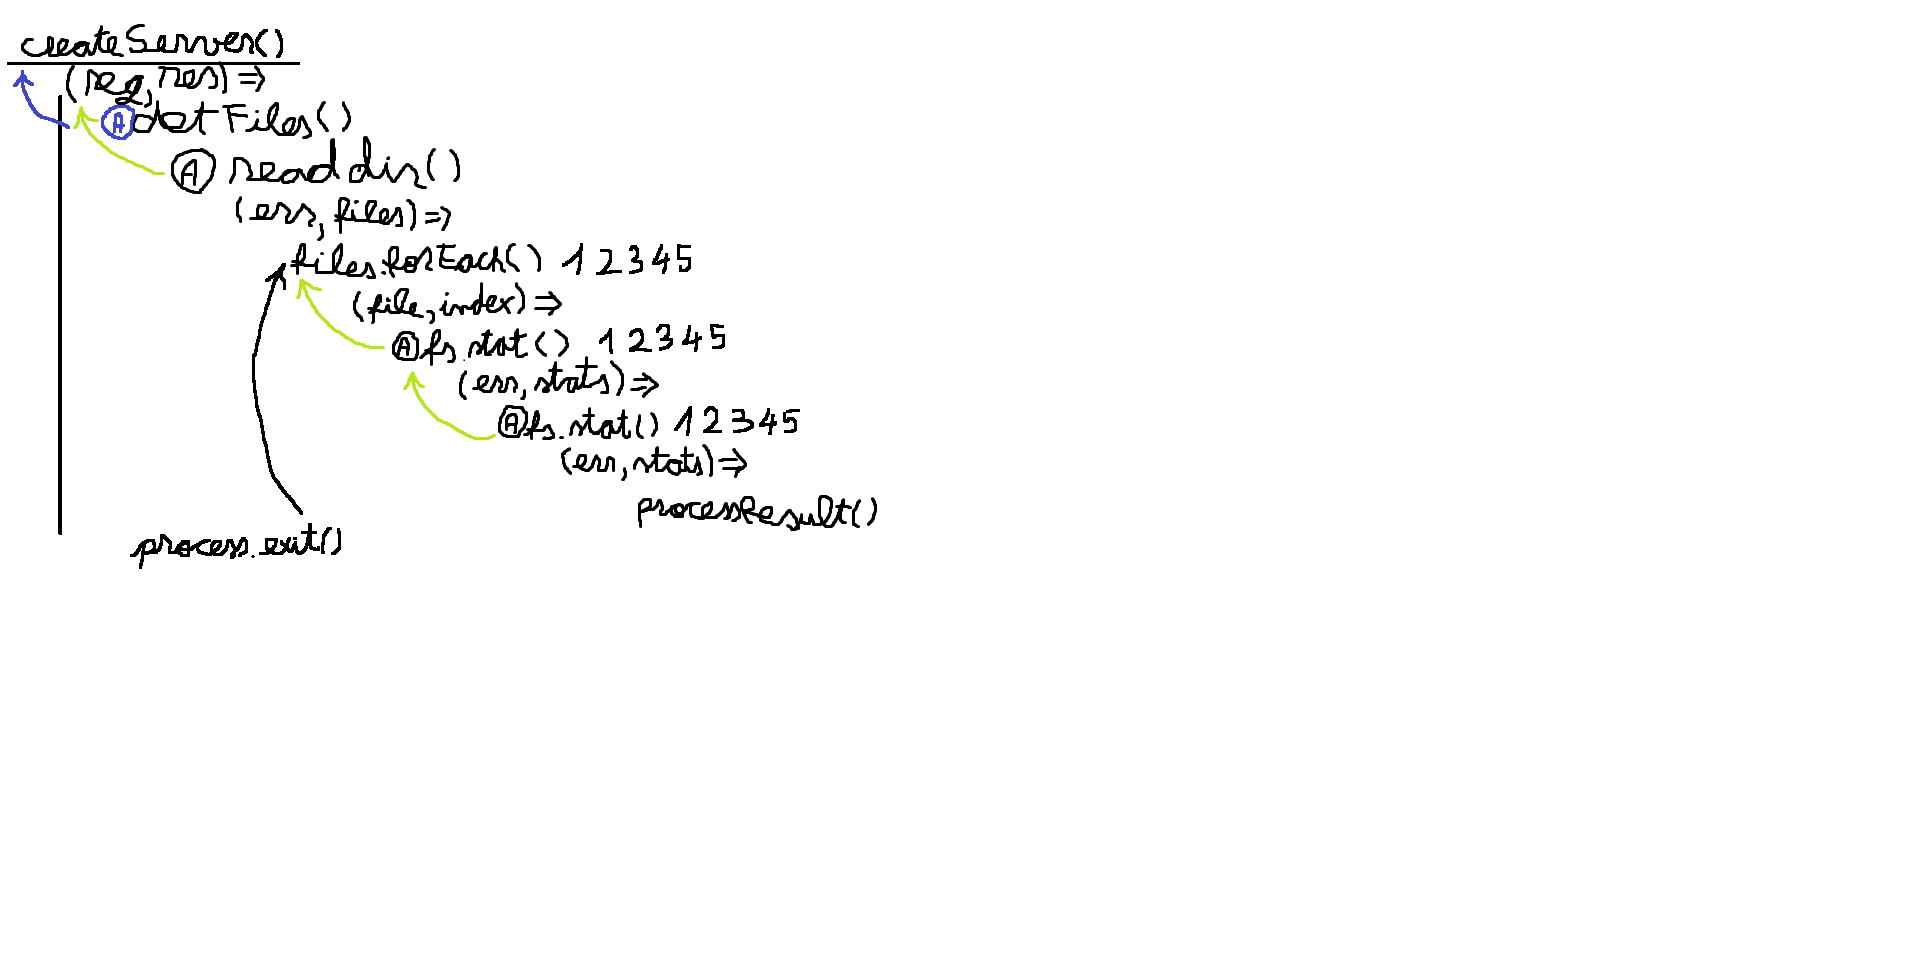
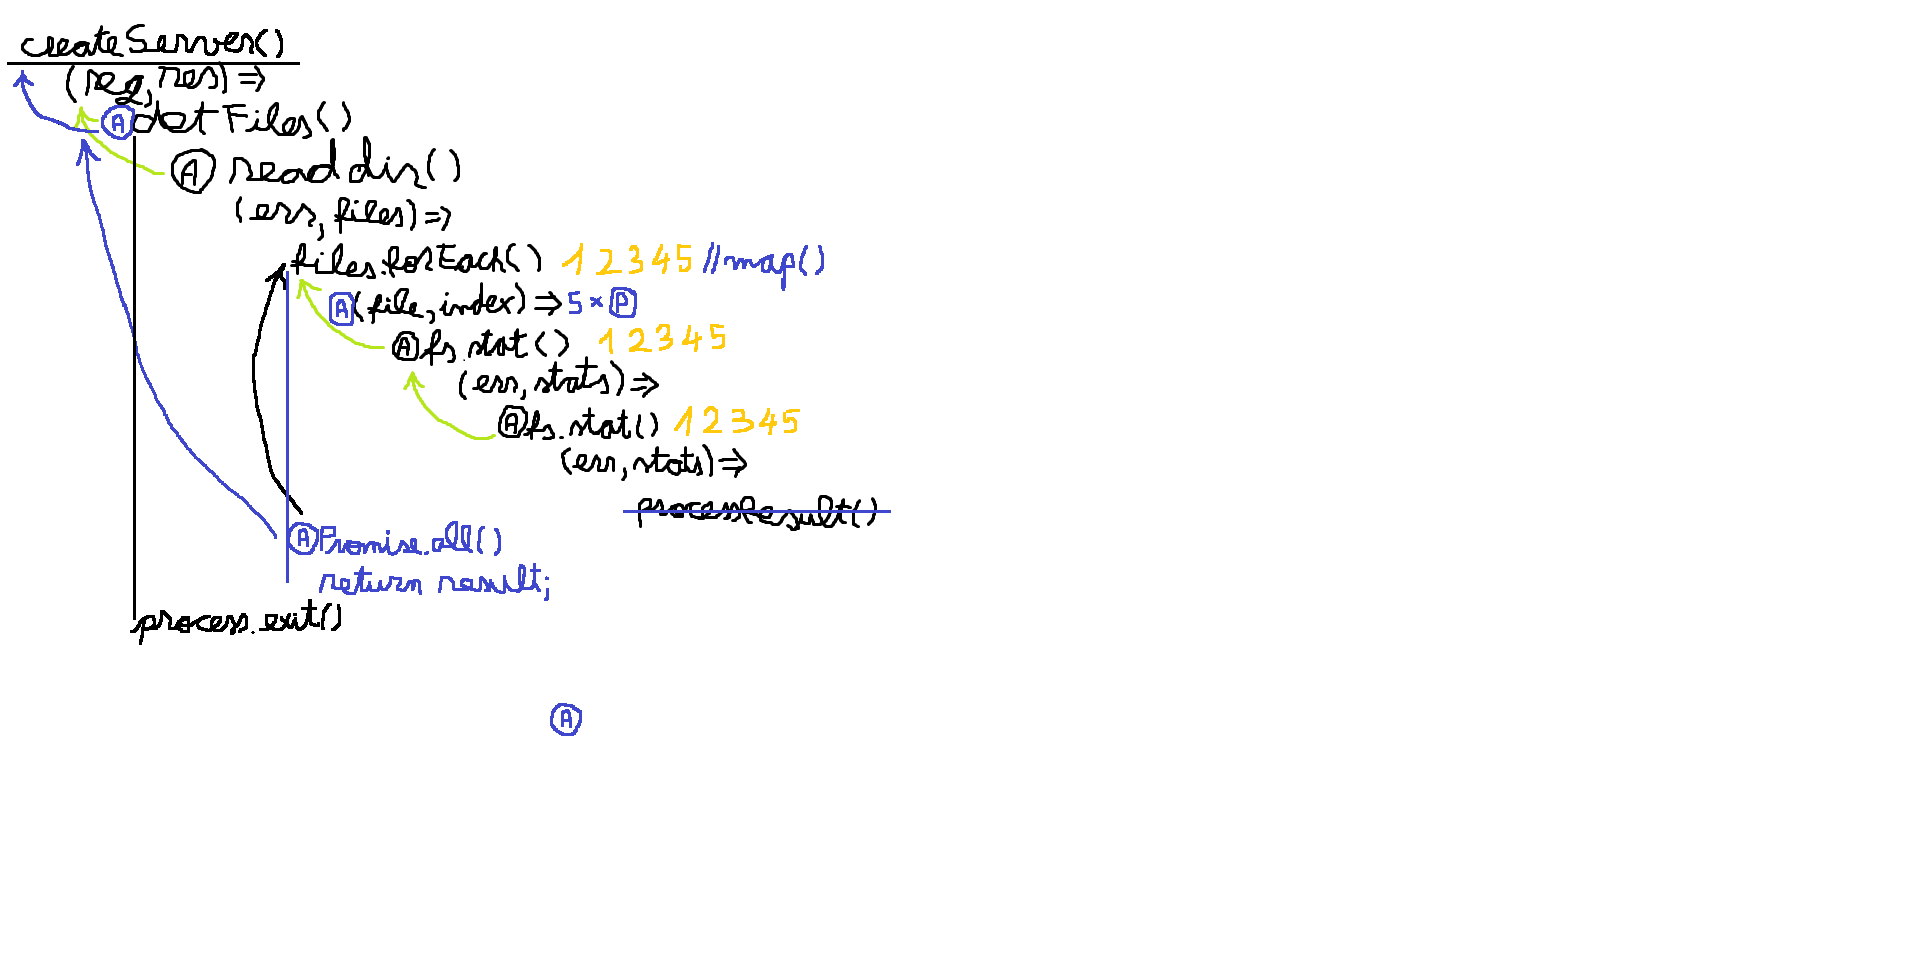
rearrange

diff --git a/server_promises.js b/server_promises.js
@@ -22,7 +22,7 @@ async function determineFiles() {
 
     // Iterate the new folder's files and
     // check if present in the old folder also
-    const filePromises = files.map( async (file) => {
+    const filePromises = files.map( async (file) => {   // returneaza promise gol 
         const oldFilePath = path.join(oldDirPath, file);
         const newFilePath = path.join(newDirPath, file);
 
@@ -47,7 +47,7 @@ async function determineFiles() {
 
 http.createServer(async (req, res) => {
     const fileResult = await determineFiles(); // tot ce CONTINE async, DEVINE async
-                                            // => await toate fctiile dupa care astepti
+                                               // => await toate fctiile dupa care astepti
     printResult(fileResult);
     process.exit();
 }).listen(8081);
